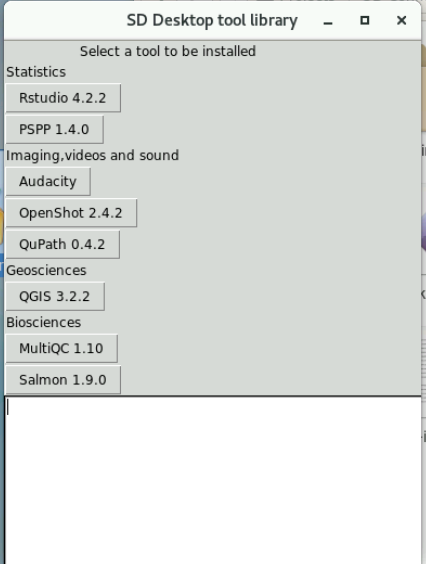
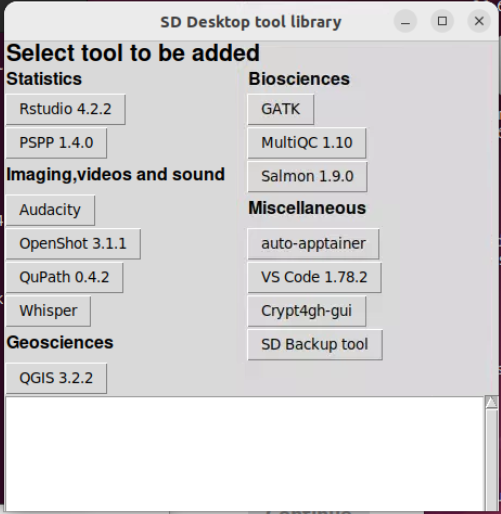
Kkmattil sd installer (#1728)
* Create sd-software-installer.md

* Create rstudio.md

* Update sd-software-installer.md

* Create whisper.md

* Update sd-software-installer.md

* Update sd-software-installer.md

* Update sd-software-installer.md

* Update sd-software-installer.md

* Update sd-software-installer.md

* Update whisper.md

* Create auto-apptainer.md

* Update auto-apptainer.md

* Update auto-apptainer.md

* Update auto-apptainer.md

* Create vscode.md

* Update sd-software-installer.md

* Update sd-software-installer.md

* Update sd-software-installer.md

* Update sd-software-installer.md

* Update sd_desktop.md

* Update sd-software-installer.md

* Update vscode.md

* Update auto-apptainer.md

* Update sd-software-installer.md

* Update rstudio.md

* Update sd-software-installer.md

* Delete sd-installer2.png

* Add files via upload

* Delete sd-installer2.png

* Add files via upload

* Update sd-software-installer.md

fixed a typo

Changed region(s): [[0.0, 0.0, 1.0, 1.0]]

diff --git a/docs/data/sensitive-data/tutorials/sd-software-installer.md b/docs/data/sensitive-data/tutorials/sd-software-installer.md
@@ -1,0 +1,90 @@
+# SD Desktop Software Installer
+
+As SD desktop virtual machines are isolated from internet, installing additional software and libraries 
+to your virtual machine is not straight forward. Adding extra software is possible, but it requires that 
+you convert the installation processes into files that can be uploaded to SD Connect and from there 
+copied to your SD Desktop environment for installation and usage.
+
+In generally, we recommend using Apptainer containers for importing the software you need.
+
+To make additional software installations easier, CSC has created **SD Software Installer** tool,
+that provides an easy way to add few commonly used software packages and help tools to your virtual machine. 
+This document describes the usage of this help tool.
+
+
+## Requirements ##
+
+In order to get access to the installation tool, you need to **send a request to servicedesk@csc.fi**.
+In the request, indicate that you wish that the SD software installer would be 
+made available for your project. You must include the  **Project identifier string** of your project to the request.
+You can check this 32 characters long random string for example in the [SD Connect service](https://sd-conenct.csc.fi). 
+There you find the Project Identifier in the **User information** view. 
+
+## Installing the SD Software Installer ##
+
+Log in to your SD Desktop and open **Data Gateway**. If the software installation help tools are enabled for your project,
+then you should have folder **tools-for-sd-desktop** included in the directory that Data Gateway created 
+( in Projects/SD-Connect/_your-project-name_).
+
+Open _tools-for-sd-desktop_ folder and from there, drag/copy file **sd-installer.desktop** to your desktop.
+
+[![Installing-sd-installer](../images/desktop/sd-installer1.png)](../images/desktop/sd-installer1.png)
+
+**Figure 1.** Copying sd-installer.desktop file to SD desktop.
+ 
+Double click the copy of _sd-installer.desktop_ to start the software installation tool. In Ubuntu based VMs you
+need to right-click the and select _Allow Launching_ before  you can use the _sd-installer.desktop_.
+
+[![sd-installer](../images/desktop/sd-installer2.png)](../images/desktop/sd-installer2.png)
+
+**Figure 2.** SD Software installer
+
+
+## Usage ##
+
+In order to use the installer, you must have an active Data Gateway connection running and 
+mounting of the SD Conncect data should be done through the default location in the file system 
+(_Projects_ directory in the users home directory). 
+
+The installer shows a panel of buttons that allow you to install a software by just cliking the button.
+The available software include graphical and command line applications. For graphical applications, a launching icon is added 
+to the desktop. All software is installed to directory _/shared-directory/sd-tools/_ where the installaion is availale for all the
+users of the virtual machine.
+
+In case of some applications, part of the installation process occurs only when the application is started for the first time.
+Thus you should start the application once after the installation, to make sure that the prcess is completed. After that
+the installaled software should work also when Data Gateway connection has not been opened.
+
+
+## Tool selection ##
+
+Notes about the available tools. Note that this list may be out-dated:
+
+### Statistics
+*  [Rstudio 4.2.2](rstudio.md) R statistics tool with graphcal user interface and help tools for adding libraries.
+*  [PSPP](https://www.gnu.org/software/pspp/) Open Source alternative for SPSS statistics tool.
+
+### Imaging and vidos
+*  [Audacity](https://www.audacityteam.org/). Sound editor.
+*  [OpenShot 3.1.1](https://www.openshot.org/). Video editor.
+   *  This tool works only in Ubuntu22 based VMs.
+   *  After installation, right click the OpenShot desktop icon and select: _Run as a program_.
+*  [QuPath 0.4.2](https://github.com/qupath/qupath/). Software for bioimage analysis.GATL
+*  [Whisper](whisper.md) Automatic speech recognition.
+  
+### Geosciences
+*  [QGis 3.1.1](https://qgis.org/en/site/) A Free and Open Source Geographic Information System. 
+   *   [QGis at CSC servers](../../../apps/qgis.md)
+
+### Biosciences
+*  [GATK](https://gatk.broadinstitute.org/hc/en-us) A genomic analysis toolkit focused on variant discovery.
+*  [MultiQC 1.10](https://multiqc.info/) NGS Read quolity checking tool.
+*  [Salmon 1.9.0](https://combine-lab.github.io/salmon/) Program to produce transcript-level quantification estimates from RNA-seq data
+   *   [Salmon 1.9.0 at CSC servers](../../../apps/salmon.md)
+
+### Miscallenius
+*   [auto-apptainer](./auto-apptainer.md) Tool to add command line applications using the Apptainer container library provided by CSC.
+*   [VS Code 1.78.2](./vscode.md) Code editor.
+*   [Crypt4gh-gui](../sd_connect.md#sensitive-data-encryption-and-upload-for-analysis-up-to-100-gb) Encryption tool.
+*   [Backup tool](./backup_sd_desktop.md) Help tool to automiatize backup and export in SD Desktop.
+

diff --git a/docs/data/sensitive-data/tutorials/rstudio.md b/docs/data/sensitive-data/tutorials/rstudio.md
@@ -1,0 +1,87 @@
+# Adding Rstudio and R libraries to SD Desktop #
+
+Using R and Rstudio in SD Desktop virtual machines is based on a singularity container that 
+contains R and Rsudio installations and over 1000 commonly used R libraries. However, as there 
+are nearly 20 000 libraries in the CRAN repository and over 2000 libraries in the Bioconductor 
+repository, it is quite common that some library that you would like to use, is not included in the default selection. 
+
+This document describes the usage of help tools that you can use to add Rstudio 4.2.2 and missing R libraries to your SD Desktop environment. 
+The process described here is the first prototype implementation of this service and it is likely the change in the future.
+
+## Requirements ##
+
+In order to get access to the installation tool, you need to **send a request to servicedesk@csc.fi**.
+In the request, indicate that you wish that the SD Desktop software installation help tools would be made available for your project. 
+You must also include to the message the  **Project identifier string** of your project.
+
+You can check this random string for example in the [SD Connect service](https://sd-conenct.csc.fi). There you find the 
+Project Identifier in the **User information** view. 
+
+
+## Installing Rstudio 4.2.2 ##
+
+Log in to your SD Desktop and open **Data Gateway**. If the software installation help tools are enabled for your project, then you should have folder: 
+**tools-for-sd-desktop** included in the directory that Data Gateway created ( in Projects/SD Coonnect/_your-project-name_).
+Open _tools-for-sd-desktop_ folder and from there, drag/copy file **sd-installer.desktop** to your desktop.
+
+[![Installing-sd-installer](../images/desktop/sd-installer1.png)](../images/desktop/sd-installer1.png)
+
+**Figure 1.** Copying sd-installer.desktop file to SD desktop.
+ 
+Double click the copy of _sd-installer.desktop_ to start the software installation tool. Use this tool to install _Rstudio 4.2.2_ 
+to your SD Desktop virtual machine if you have not yet done so. The installation takes several minutes. 
+
+[![sd-installer](../images/desktop/sd-installer2.png)](../images/desktop/sd-installer2.png)
+
+**Figure 2.** SD software installation tool.
+
+Once the installation is done you can start Rstudio by clicking the Rstudio icon in the desktop or by executing command:
+
+```text
+start-rstudio
+```
+
+## Adding missing R libraries ##
+
+Once the Rstudio environment is installed, new libraries can be added by opening a terminal and executing command:
+```text
+add-R-library 
+```
+
+The command asks for a search term and shows the available R libraries that match the search string. 
+If several libraries are found, you will be provided an enumerated list from which you can
+select the library that should be installed.
+
+This tool does not check for internal library dependencies, and quite often the first installation attempt fails. 
+In these cases you should check the names of the missing libraries and install them first.
+
+For example, search term _fusion_ finds 8 libraries. In this case we want to install _DNAfusion_  (DNAfusion_1.0.0.tar.gz), 
+that is listed as the first in the list so the installation started by pressing _1_ and then  _Enter_.
+
+In this case, the installation however fails as DNAfusion depends on a library which is not yet installed. 
+In this kind of situations you need to check the names of the missing libraries from the error message and install them first. 
+You can give the name of the library as an argument to the add-R-library command. 
+For example in this case the missing library, _bamsignals_, can be added with command:
+```text
+add-R-library bamsignals
+```
+
+After which you can install DNAfusion
+
+```text
+add-R-library DNAfusion
+```
+
+The additional libraries are installed to location ”/shared-directory/sd-toold/apps/R/lib” where they are available for
+all the users of the virtual machine. This is not a default location of R libraries so you must define the location in your 
+R code with command:
+
+```text
+.libPaths(”/shared-directory/sd-tools/apps/R/lib/”)
+```
+
+After that you can take the library in use. e.g.
+
+```text
+library(DNAfusion)
+```

diff --git a/docs/data/sensitive-data/sd_desktop.md b/docs/data/sensitive-data/sd_desktop.md
@@ -335,11 +335,15 @@ Each virtual Desktop (or virtual computer) is pre-built and contains a limited s
       * R + RStudio Server versions matched with Puhti r-env-singularity module (R 4.0.5 + RStudio Server 1.4.1106, MRAN, Bioconductor 3.12) 
       * [Rstudio 4.2.2 and all CRAN and Bioconductor libraries can be added with SD-software-installer](./r-in-sd-desktop.md)
 
+### SD Software installer
+
+[SD Software installer](./tutorials/sd-software-installer.md) provides easy-to-use tool to add some commonly used software to SD Desktop.
+
 ### Software customisation
 
-Users can install their user-level software to SD Desktop, but this requires technical expertise. As SD Desktop is isolated from the internet, you can't directly use installation tools like _git_, _coda_, _cpan_ or _pip_ as they are dependent on internet connections to external repositories. Further, SD Desktop users can't do any operation that needs superuser access.
+Users can install their own software to SD Desktop, but this requires technical expertise. As SD Desktop is isolated from the internet, you can't directly use installation tools like _git_, _coda_, _cpan_ or _pip_ as they are dependent on internet connections to external repositories. Further, SD Desktop users can't do any operation that needs superuser access.
 
-The most convenient way to add new software to your SD Desktop is to build a Singularity container outside SD Desktop and then import the Singularity image through SD Connect to SD Desktop. The two documents below describe two sample cases on adding software with containers.
+If you want to add new software to your virtual machine independently, the most convenient way to add new software to your SD Desktop is to build a Singularity container outside SD Desktop and then import the Singularity image through SD Connect to SD Desktop. The two documents below describe two sample cases on adding software with containers.
 
    1. [Importing ready-made software containers from a public repository to SD Desktop](./sd-desktop-singularity.md)
    2. [Creating you own Singularity container and importing it to SD Desktop](./creating_containers.md)

diff --git a/docs/data/sensitive-data/tutorials/auto-apptainer.md b/docs/data/sensitive-data/tutorials/auto-apptainer.md
@@ -1,0 +1,32 @@
+# Auto-apptainer
+
+Auto-apptainer is a help tool that can be used to add software to a SD Desktop virtual machine. It utilizes a library of
+of Apptainer based software contaners, pre-loaded by CSC. You can suggest a container to be added to the library.
+
+Auto apptainer is not available by default, but you must install it first using [SD Software installer](./sd-software-installer.md).
+After that you can lauch the tool with command:
+
+```test
+auto-apptainer
+```
+By deafault, this lists all the Apptainer packages available. From the list you can select the backage to be installed.
+
+Alternatively you can add a fltering criteria to the command. In this case only those containers whose name or one 
+of commands that the container provides, matches the search creiteria, are listed.
+
+For example command :
+
+```test
+auto-apptainer bam
+```
+
+asks the user to choose from two contaiers: _bamtools_ and _bedtools_. Bedtools is included as it provides commands _bamToBed_ and _bamToFasta_ that match the serach criteria in this case.
+
+Once a container is selected, one more apptainer warpper based commands are created to drectory: _/shared-directory/sd-tools/bin_.
+These commands can mostly be used like natively installed commands. For example after installing the Bamtools container, 
+Bamtools can be startted with command:
+
+```text
+bamtools
+```
+

diff --git a/docs/data/sensitive-data/tutorials/vscode.md b/docs/data/sensitive-data/tutorials/vscode.md
@@ -1,0 +1,24 @@
+# VS Code
+
+VS Code is a code editor redefined and optimized for building and debugging modern web and cloud applications.
+
+VS Code 1.78.2 can be installed to a SD Desktop virtual machine with [SD software installer](./sd-software-installer.md).
+The installation creates a desktop button for VS Code
+
+The VS Code installation does not include any extensions. However you can add them yourself.
+
+On you own computer open VS Cone extension library:
+
+*   [https://marketplace.visualstudio.com/VSCode](https://marketplace.visualstudio.com/VSCode)
+
+Once you have found the right extension, use the _Download Extension_ function to
+download the extension to your local computer as a _.vsix_ file.
+
+Then use [SD Connect](https://sd-connect.csc.fi) to encrypt and upload the .vsix file to SD Connect.
+
+Then in SD Desktop, refresh the DataGateway connection and copy the _.vsix_ file to your
+SD Desktop environment.
+
+Finally open VS Code. Open the _extensions manager_ ( lowest icon, in the first column if the interface).
+In the Extensions manager, point the three dots ... to open the menu that contains function _Install from VSIX_
+Use that function to read in the .vsix file you imported.

diff --git a/docs/data/sensitive-data/tutorials/whisper.md b/docs/data/sensitive-data/tutorials/whisper.md
@@ -1,0 +1,18 @@
+# Whisper
+
+Whisper is a general-purpose speech recognition model. It is trained on a large dataset of 
+diverse audio and is also a multitasking model that can perform multilingual speech recognition, 
+speech translation, and language identification.
+
+*   [Whisper home page](https://github.com/openai/whisper)
+
+The installation in SD Desktop is based on [WhisperDO](https://github.com/nicholasgcotton/WhisperDO)
+
+After installation Whisper is available as a command line tool in SD Desktop. 
+Sample command:
+
+```text
+   whisper audio.mp3 --model medium
+```
+
+ 
